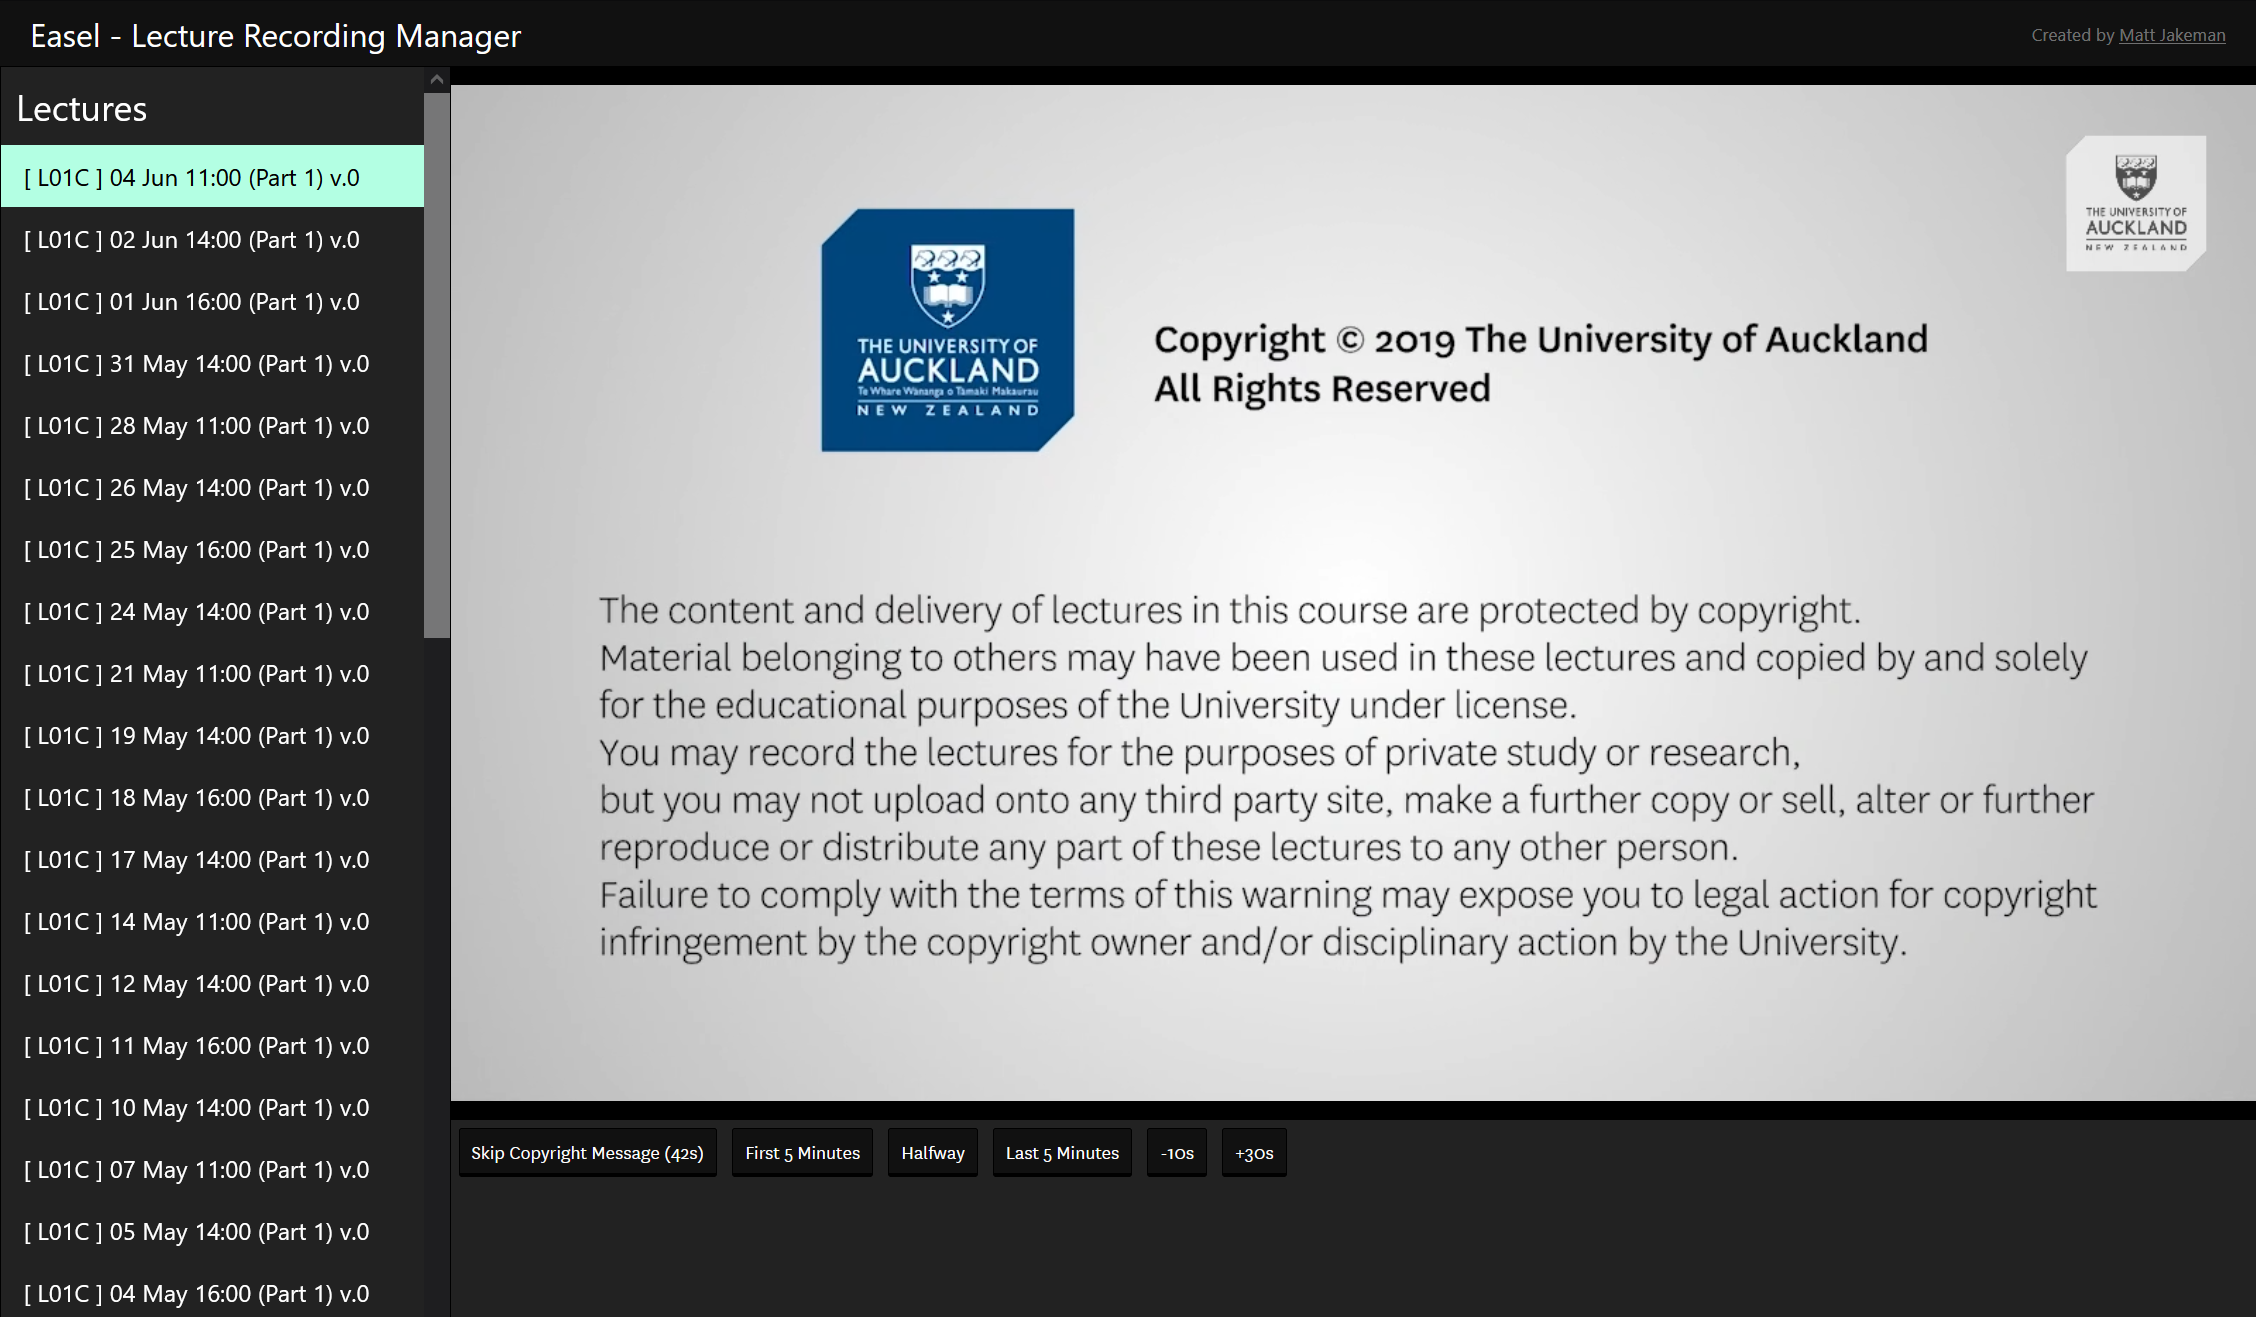
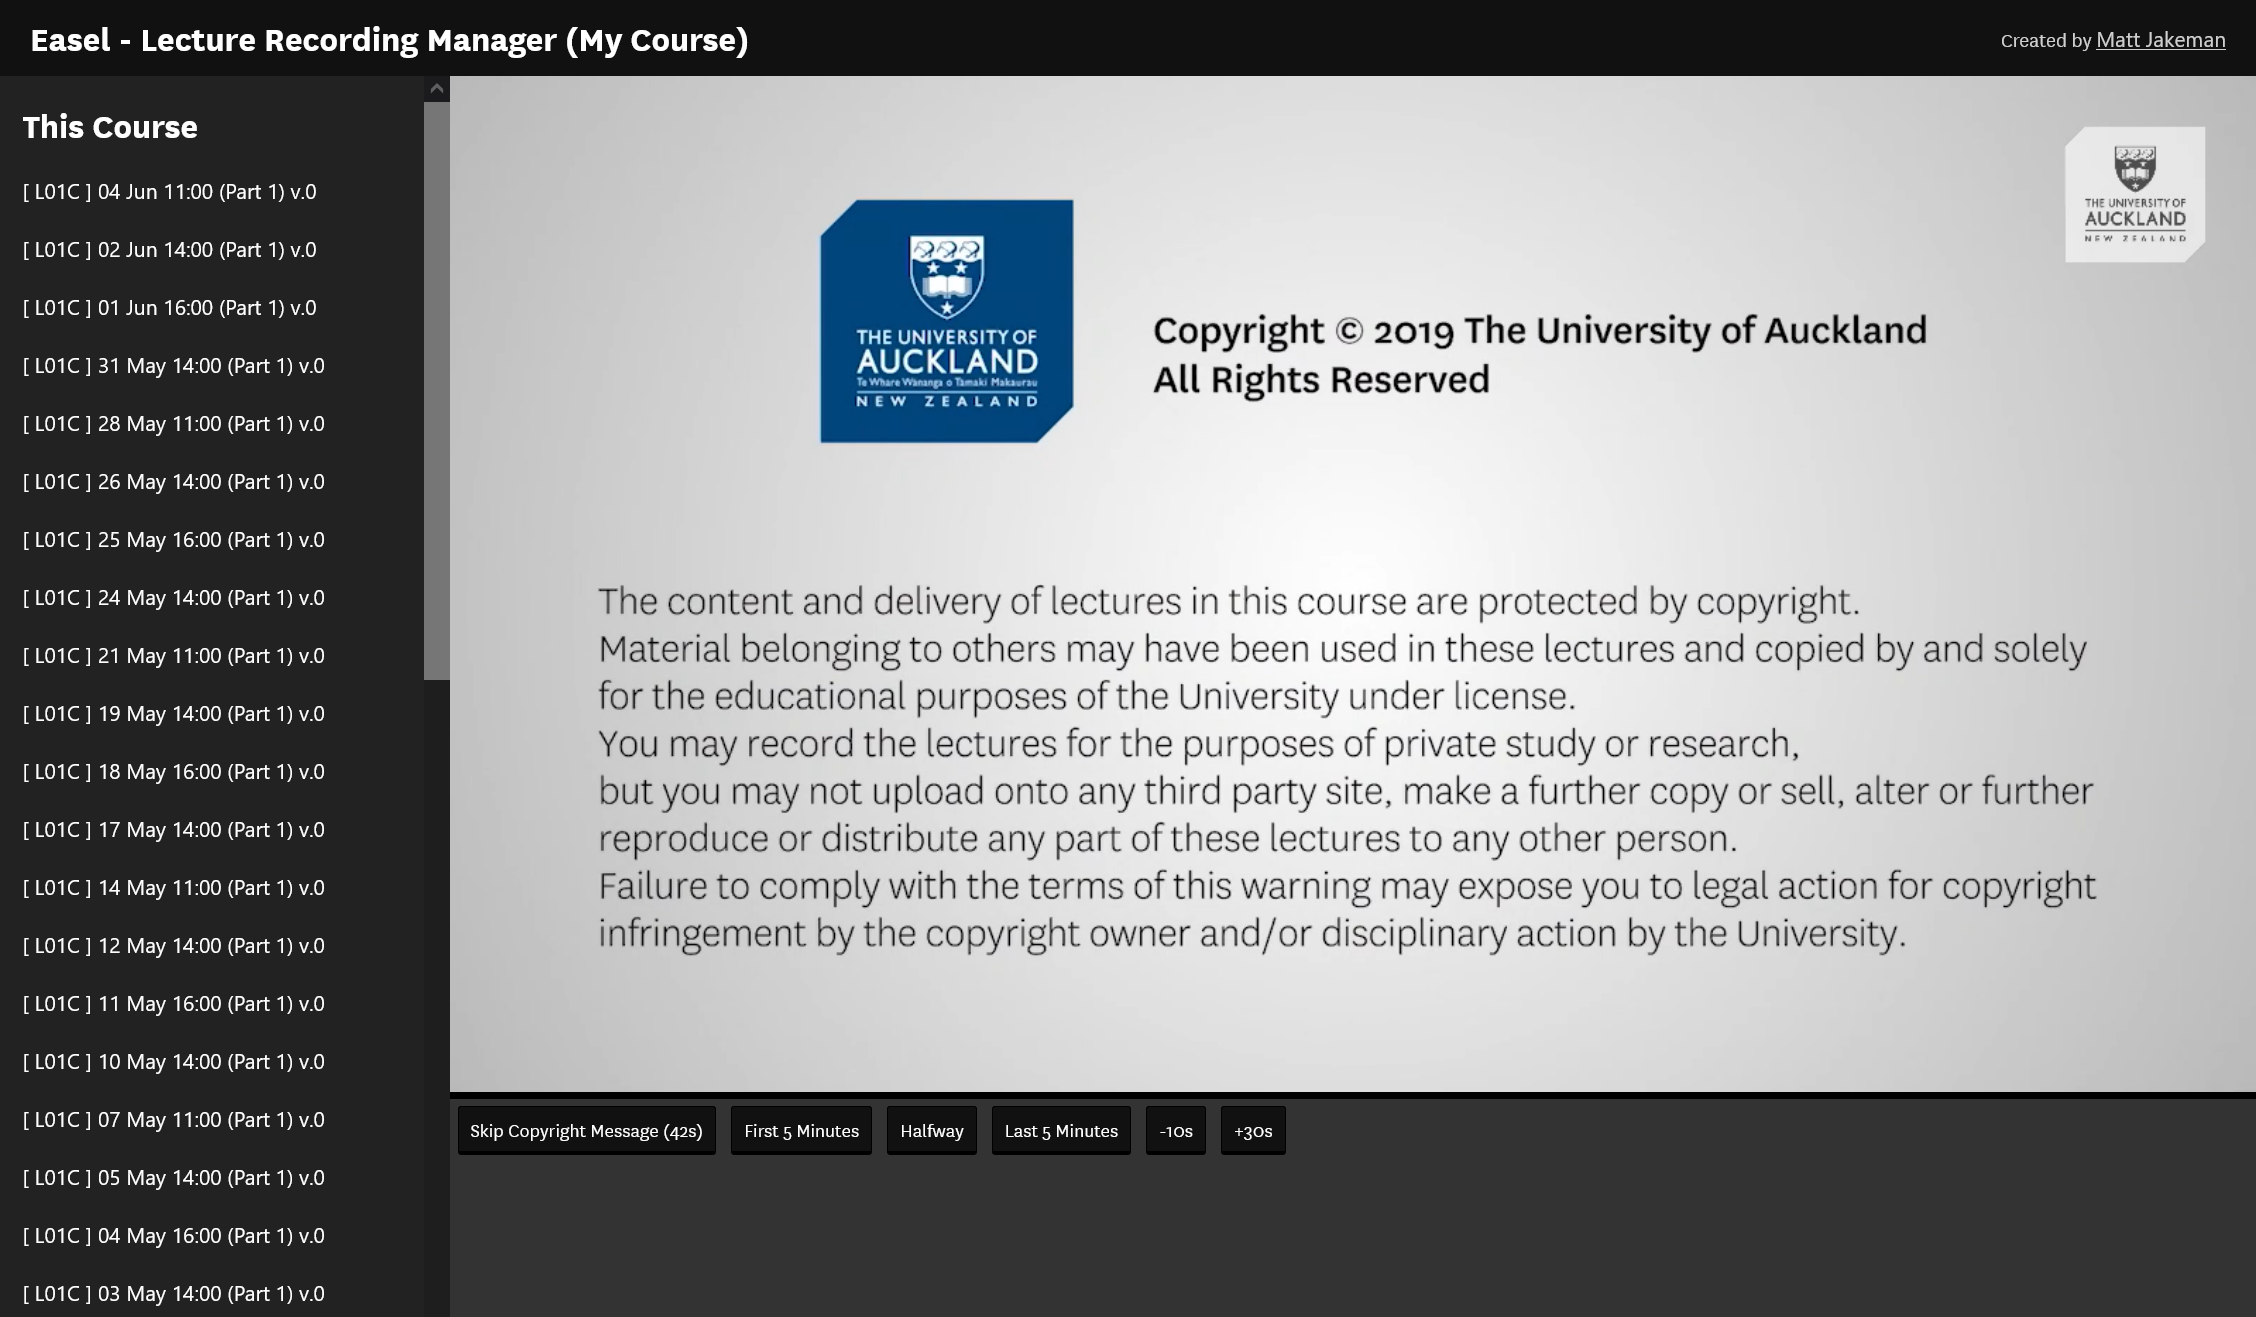
Slight Organisation/Renaming/Clean Up

diff --git a/css/video.css b/css/video.css
@@ -3,62 +3,7 @@
     margin: 0;
 }
 
+/* Make the background black so changing pages is not as jarring */
 body {
     background: black;
 }
-
-/*.video-container {
-    position: fixed;
-    width: 100vw;
-    height: 100vh;
-    // border: 5px solid blue;
-    box-sizing: border-box;
-    background-color: #222;
-}
-
-.video-container button {
-    background-color: #111;
-    color: white;
-    padding: 8px;
-    margin: 5px;
-    border: 1px solid black;
-    border-bottom: 3px solid black;
-    border-radius: 2px;
-    transition: background-color 0.15s ease-out;
-}
-
-.video-container button:hover {
-    background-color: #222;
-}
-
-.video-container button:active {
-    background-color: #222;
-    border-bottom: 1px solid black;
-    position: relative;
-    top: 2px;
-}
-
-video {
-    display: block;
-    height: 80%;
-    background-color: black;
-}
-
-nav {
-    display: flex;
-    color: white;
-    font-size: 120%;
-    line-height: 120%;
-    padding: 10px 30px;
-    justify-content: space-between;
-}
-
-nav .credit {
-    font-size: 60%;
-    display: inline;
-    color: rgba(255,255,255,0.4) !important;
-}
-
-nav .credit a {
-    color: inherit;
-} */

diff --git a/src/components/Header.tsx b/src/components/Header.tsx
@@ -10,6 +10,9 @@ export class Header extends React.Component<HeaderProps, {}> {
         let courseText = (this.props.courseName !== undefined)
             ? "(" + this.props.courseName + ")"
             : "";
-        return <h1 className={Style.Header}>Easel - Lecture Recording Manager {courseText}</h1>;
+        return <header className={Style.Header}>
+                <h1 className={Style.HeaderText}>Easel - Lecture Recording Manager {courseText}</h1>
+                <p className={Style.HeaderCredit}>Created by <a href="https://www.mattjakeman.com/">Matt Jakeman</a></p>
+            </header>;
     }
 }

diff --git a/webpack.config.js b/webpack.config.js
@@ -3,11 +3,15 @@ const path = require('path');
 module.exports = {
     mode: 'development',
     entry: {
-        course: './src/course.ts',
-        easel: './src/easel.ts',
+        // Background Scripts
         background: './src/background.ts',
-        videoenhance: './src/videoenhance.ts',
         inject: './src/inject.ts',
+
+        // Page Helper Scripts
+        recordings: './src/recordings.ts',
+        video: './src/video.ts',
+
+        // Easel React App
         reactapp: './src/app.tsx',
     },
     devtool: 'inline-source-map',

diff --git a/css/Easel.module.css b/css/Easel.module.css
@@ -81,8 +81,24 @@
 }
 
 .Header {
-    font-size: 20px;
-    padding: 10px 20px;
-    margin: 0;
+    display: flex;
+    flex-direction: row;
+    justify-content: space-between;
+
+    padding: 0 20px;
     background-color: #111;
+}
+
+.HeaderText {
+    margin: 0;
+    padding: 0;
+    font-size: 24px;
+    line-height: 50px;
+}
+
+.HeaderCredit,
+.HeaderCredit a {
+    font-size: 14px;
+    line-height: 50px;
+    color: rgba(255,255,255,0.8);
 }
